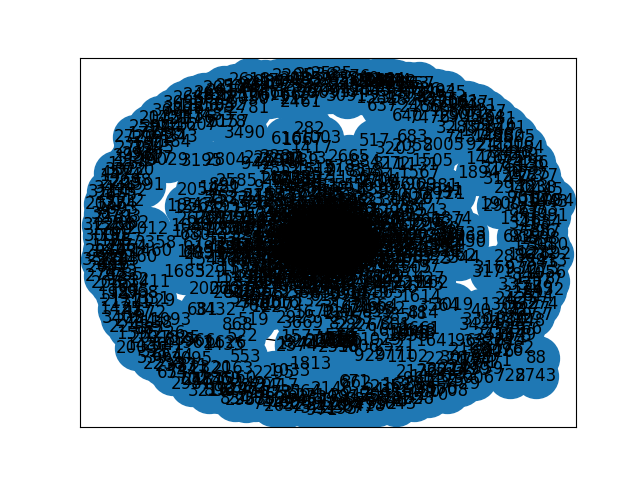
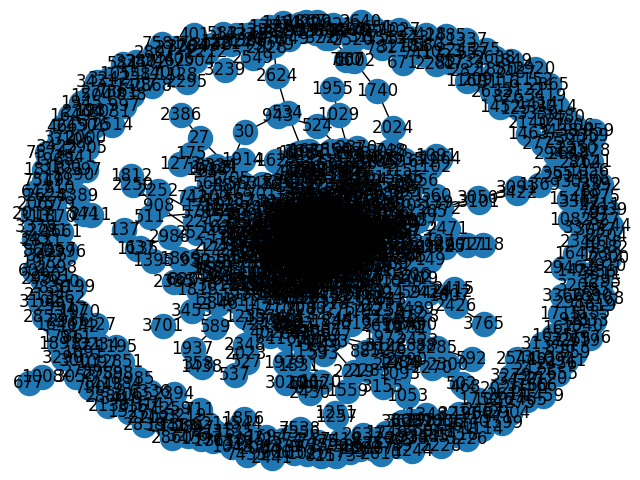
remove old img

diff --git a/sampling.py b/sampling.py
@@ -26,7 +26,7 @@ def node_sampling(Graph , k):
     sampled_nodes = random.sample(Graph.nodes, k)
     sampled_graph = Graph.subgraph(sampled_nodes)
     print(sampled_nodes)
-    nx.draw_networkx(sampled_graph , node_size=1000, with_labels = True)
+    nx.draw(sampled_graph , with_labels = True)
     plt.savefig("node-sampling.png")
    # save_graph(sampled_graph,"my_graph.pdf")
     return sampled_graph
@@ -59,7 +59,7 @@ def edge_sampling(G ,k):
         # Check for every node's neighbour in sample set of nodes
             G1.add_edge(x, y)
             # Add edge between the sampled nodes
-    nx.draw_networkx(G1 , node_size=1000, with_labels = True)
+    nx.draw(G1, with_labels = True)
     plt.savefig("edge-sampling.png")
     return G1
 
@@ -97,7 +97,7 @@ def random_walking(complete_graph , growth_size , T , nodes_to_sample):
             if ((sampled_graph.number_of_edges() - edges_before_t_iter) < growth_size):
                 curr_node = random.randint(0, nr_nodes - 1)
             edges_before_t_iter = sampled_graph.number_of_edges()
-    nx.draw_networkx(sampled_graph , node_size=1000, with_labels = True)
+    nx.draw(sampled_graph , with_labels = True)
     plt.savefig("random-walk.png")
     return sampled_graph
 
@@ -148,6 +148,10 @@ important_nodes_node_sample_graph=find_important_nodes(node_sample_graph)
 important_nodes_edge_sample_graph=find_important_nodes(edge_sample_graph)
 important_nodes_random_walk_graph=find_important_nodes(random_walk_graph)
 
+print(f'important nodes from node sampling : {important_nodes_node_sample_graph}')
+print(f'important nodes from edge sampling : {important_nodes_edge_sample_graph}')
+print(f'important nodes from random walk sampling : {important_nodes_random_walk_graph}')
+print(f'important nodes main graph : {important_nodes_main_graph}')
 numberOfCommonNodeSample= list(set(important_nodes_main_graph)&set(important_nodes_node_sample_graph))
 numberOfCommonEdgeSample= list(set(important_nodes_main_graph)&set(important_nodes_edge_sample_graph))
 numberOfCommonWalkSample= list(set(important_nodes_main_graph)&set(important_nodes_random_walk_graph))
